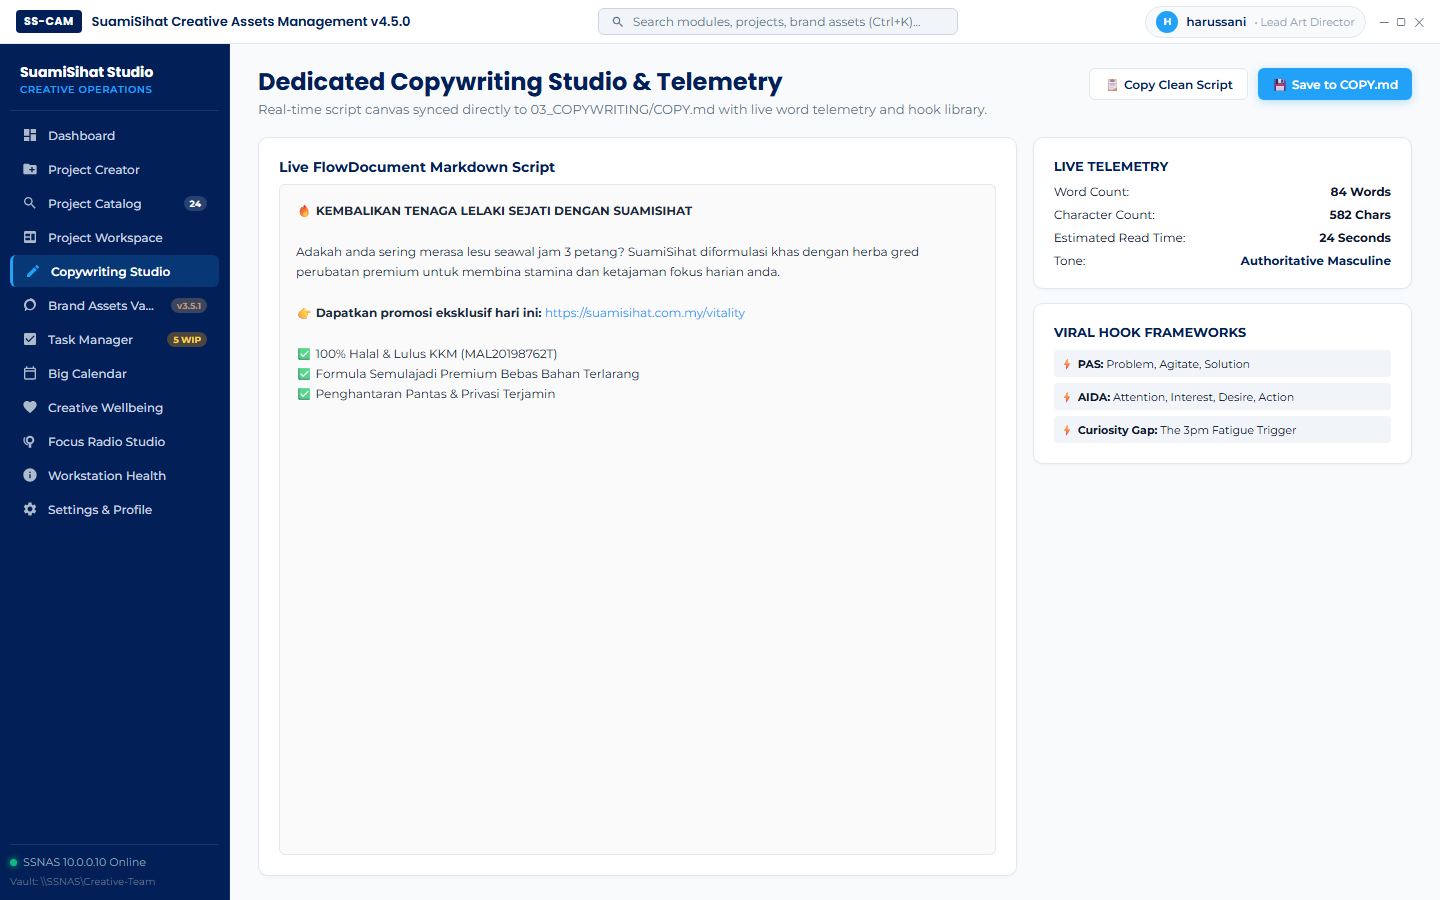
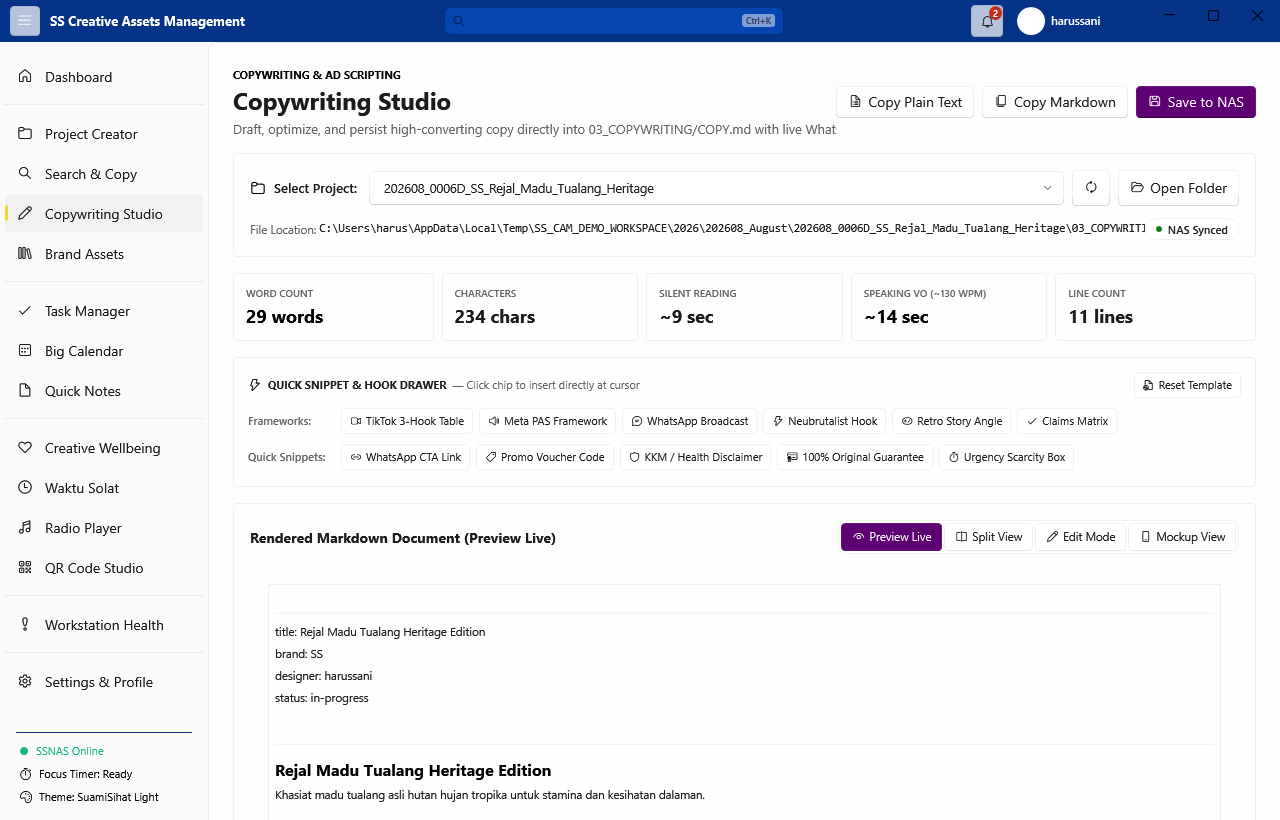
docs(showcase): update all screenshots with authentic C# WPF desktop application renders for v4.5.0

diff --git a/docs/index.html b/docs/index.html
@@ -176,7 +176,7 @@
       <div class="cl-sidebar-section">
         <span class="cl-sidebar-label">Deployment</span>
         <a href="#download-v4" class="cl-sidebar-link" id="slink-download">
-          <iconify-icon icon="fluent:arrow-download-24-regular"></iconify-icon> Download v4.0.0
+          <iconify-icon icon="fluent:arrow-download-24-regular"></iconify-icon> Download v4.5.0
         </a>
         <a href="#wellbeing"   class="cl-sidebar-link" id="slink-wellbeing">
           <iconify-icon icon="fluent:heart-pulse-24-regular"></iconify-icon> Designer Wellbeing
